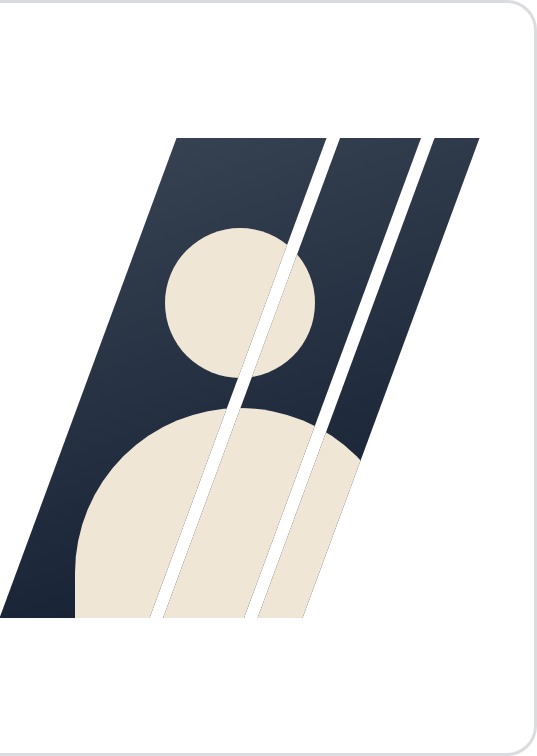
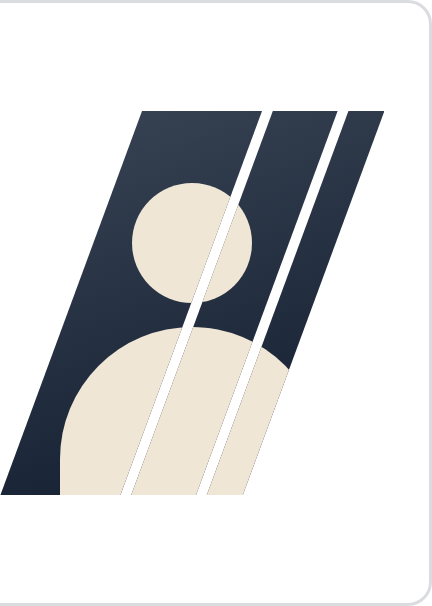
Email signature: shrink the card to 80% (415px wide)
Claude-Session: https://claude.ai/code/session_01GgaKx3bXDJYD5g8dhmqHc3

diff --git a/marketing/email-signature/people/yamen-alsulaiman/signature.html b/marketing/email-signature/people/yamen-alsulaiman/signature.html
@@ -1,6 +1,6 @@
 <!-- ETS email signature for Yamen Alsulaiman. Made by build.js - edit there, not here. -->
 <table cellpadding="0" cellspacing="0" border="0" style="border-collapse:collapse;"><tr>
-<td style="padding:0;vertical-align:top;font-size:0;line-height:0;"><a href="https://excellenttilingservices.com" style="text-decoration:none;"><img src="https://cdn.shopify.com/s/files/1/0683/0292/9983/files/ets-sig-yamen-alsulaiman-strip-website.png?v=1794456637" width="55" height="96" alt="Website" style="display:block;border:0;outline:none;"></a><a href="https://www.instagram.com/excellent_tiling_services/" style="text-decoration:none;"><img src="https://cdn.shopify.com/s/files/1/0683/0292/9983/files/ets-sig-yamen-alsulaiman-strip-instagram.png?v=1794456637" width="55" height="30" alt="Instagram" style="display:block;border:0;outline:none;"></a><a href="https://www.facebook.com/share/1943ueL61k/" style="text-decoration:none;"><img src="https://cdn.shopify.com/s/files/1/0683/0292/9983/files/ets-sig-yamen-alsulaiman-strip-facebook.png?v=1794456637" width="55" height="30" alt="Facebook" style="display:block;border:0;outline:none;"></a><a href="mailto:yamen@excellenttilingservices.com" style="text-decoration:none;"><img src="https://cdn.shopify.com/s/files/1/0683/0292/9983/files/ets-sig-yamen-alsulaiman-strip-email.png?v=1794456637" width="55" height="96" alt="Email" style="display:block;border:0;outline:none;"></a></td>
-<td style="padding:0;vertical-align:top;font-size:0;line-height:0;"><a href="https://excellenttilingservices.com" style="text-decoration:none;"><img src="https://cdn.shopify.com/s/files/1/0683/0292/9983/files/ets-sig-yamen-alsulaiman-logo.png?v=1794456637" width="284" height="57" alt="Excellent Tiling Services" style="display:block;border:0;outline:none;"></a><img src="https://cdn.shopify.com/s/files/1/0683/0292/9983/files/ets-sig-yamen-alsulaiman-name.png?v=1794456637" width="284" height="64" alt="Yamen Alsulaiman, CEO" style="display:block;border:0;outline:none;"><a href="tel:+61450960543" style="text-decoration:none;"><img src="https://cdn.shopify.com/s/files/1/0683/0292/9983/files/ets-sig-yamen-alsulaiman-phone.png?v=1794456637" width="284" height="26" alt="0450 960 543" style="display:block;border:0;outline:none;"></a><a href="mailto:yamen@excellenttilingservices.com" style="text-decoration:none;"><img src="https://cdn.shopify.com/s/files/1/0683/0292/9983/files/ets-sig-yamen-alsulaiman-email.png?v=1794456637" width="284" height="22" alt="yamen@excellenttilingservices.com" style="display:block;border:0;outline:none;"></a><a href="mailto:contactus@excellenttilingservices.com" style="text-decoration:none;"><img src="https://cdn.shopify.com/s/files/1/0683/0292/9983/files/ets-sig-yamen-alsulaiman-shop-email.png?v=1794456638" width="284" height="22" alt="contactus@excellenttilingservices.com" style="display:block;border:0;outline:none;"></a><a href="https://excellenttilingservices.com" style="text-decoration:none;"><img src="https://cdn.shopify.com/s/files/1/0683/0292/9983/files/ets-sig-yamen-alsulaiman-website.png?v=1794456637" width="284" height="22" alt="excellenttilingservices.com" style="display:block;border:0;outline:none;"></a><a href="https://www.google.com/maps/search/?api=1&amp;amp;query=17A+Olga+Road+Maddington+WA+6109" style="text-decoration:none;"><img src="https://cdn.shopify.com/s/files/1/0683/0292/9983/files/ets-sig-yamen-alsulaiman-address.png?v=1794456637" width="284" height="39" alt="17A Olga Road, Maddington WA 6109" style="display:block;border:0;outline:none;"></a></td>
-<td style="padding:0;vertical-align:top;font-size:0;line-height:0;"><img src="https://cdn.shopify.com/s/files/1/0683/0292/9983/files/ets-sig-yamen-alsulaiman-photo.png?v=1794456637" width="179" height="252" alt="" style="display:block;border:0;outline:none;"></td>
+<td style="padding:0;vertical-align:top;font-size:0;line-height:0;"><a href="https://excellenttilingservices.com" style="text-decoration:none;"><img src="https://cdn.shopify.com/s/files/1/0683/0292/9983/files/ets-sig-yamen-alsulaiman-strip-website.png?v=1794456637" width="44" height="77" alt="Website" style="display:block;border:0;outline:none;"></a><a href="https://www.instagram.com/excellent_tiling_services/" style="text-decoration:none;"><img src="https://cdn.shopify.com/s/files/1/0683/0292/9983/files/ets-sig-yamen-alsulaiman-strip-instagram.png?v=1794456637" width="44" height="24" alt="Instagram" style="display:block;border:0;outline:none;"></a><a href="https://www.facebook.com/share/1943ueL61k/" style="text-decoration:none;"><img src="https://cdn.shopify.com/s/files/1/0683/0292/9983/files/ets-sig-yamen-alsulaiman-strip-facebook.png?v=1794456637" width="44" height="24" alt="Facebook" style="display:block;border:0;outline:none;"></a><a href="mailto:yamen@excellenttilingservices.com" style="text-decoration:none;"><img src="https://cdn.shopify.com/s/files/1/0683/0292/9983/files/ets-sig-yamen-alsulaiman-strip-email.png?v=1794456637" width="44" height="77" alt="Email" style="display:block;border:0;outline:none;"></a></td>
+<td style="padding:0;vertical-align:top;font-size:0;line-height:0;"><a href="https://excellenttilingservices.com" style="text-decoration:none;"><img src="https://cdn.shopify.com/s/files/1/0683/0292/9983/files/ets-sig-yamen-alsulaiman-logo.png?v=1794456637" width="227" height="46" alt="Excellent Tiling Services" style="display:block;border:0;outline:none;"></a><img src="https://cdn.shopify.com/s/files/1/0683/0292/9983/files/ets-sig-yamen-alsulaiman-name.png?v=1794456637" width="227" height="51" alt="Yamen Alsulaiman, CEO" style="display:block;border:0;outline:none;"><a href="tel:+61450960543" style="text-decoration:none;"><img src="https://cdn.shopify.com/s/files/1/0683/0292/9983/files/ets-sig-yamen-alsulaiman-phone.png?v=1794456637" width="227" height="21" alt="0450 960 543" style="display:block;border:0;outline:none;"></a><a href="mailto:yamen@excellenttilingservices.com" style="text-decoration:none;"><img src="https://cdn.shopify.com/s/files/1/0683/0292/9983/files/ets-sig-yamen-alsulaiman-email.png?v=1794456637" width="227" height="17" alt="yamen@excellenttilingservices.com" style="display:block;border:0;outline:none;"></a><a href="mailto:contactus@excellenttilingservices.com" style="text-decoration:none;"><img src="https://cdn.shopify.com/s/files/1/0683/0292/9983/files/ets-sig-yamen-alsulaiman-shop-email.png?v=1794456638" width="227" height="18" alt="contactus@excellenttilingservices.com" style="display:block;border:0;outline:none;"></a><a href="https://excellenttilingservices.com" style="text-decoration:none;"><img src="https://cdn.shopify.com/s/files/1/0683/0292/9983/files/ets-sig-yamen-alsulaiman-website.png?v=1794456637" width="227" height="18" alt="excellenttilingservices.com" style="display:block;border:0;outline:none;"></a><a href="https://www.google.com/maps/search/?api=1&amp;amp;query=17A+Olga+Road+Maddington+WA+6109" style="text-decoration:none;"><img src="https://cdn.shopify.com/s/files/1/0683/0292/9983/files/ets-sig-yamen-alsulaiman-address.png?v=1794456637" width="227" height="31" alt="17A Olga Road, Maddington WA 6109" style="display:block;border:0;outline:none;"></a></td>
+<td style="padding:0;vertical-align:top;font-size:0;line-height:0;"><img src="https://cdn.shopify.com/s/files/1/0683/0292/9983/files/ets-sig-yamen-alsulaiman-photo.png?v=1794456637" width="144" height="202" alt="" style="display:block;border:0;outline:none;"></td>
 </tr></table>

diff --git a/marketing/email-signature/build.js b/marketing/email-signature/build.js
@@ -16,6 +16,7 @@ const B = {
   ink: '#15213A', dark: '#0F1A2C', brass: '#9C7744', brassLight: '#E9D6B5', cream: '#EFE6D6', muted: '#6A6862', line: '#DADCE0',
   sans: "Manrope,'Segoe UI',Arial,Helvetica,sans-serif",
 };
+const SCALE = 0.8; // overall size of the card in an email. 1 = 518px wide (too big in Outlook), 0.8 = about 415px.
 const SHOP = {
   site: 'https://excellenttilingservices.com', siteText: 'excellenttilingservices.com',
   email: 'contactus@excellenttilingservices.com', phone: '0450 960 543',
@@ -78,7 +79,7 @@ function designHtml(p, photo) {
   const row = (s, ic, text, color = B.ink) => `<div data-s="${s}" style="display:flex;align-items:center;gap:8px;height:22px;font-size:12px;color:${color};white-space:nowrap"><span style="color:${B.brass};fill:${B.brass}">${icon(ic, 13)}</span>${esc(text)}</div>`;
   return `<style>${font('M5', 'manrope-latin-500-normal.woff2')}${font('M6', 'manrope-latin-600-normal.woff2')}${font('M7', 'manrope-latin-700-normal.woff2')}${font('IS', 'instrument-serif-latin-400-normal.woff2')}
     body{margin:0;background:transparent}</style>
-<div id="card" style="display:inline-flex;align-items:center;box-sizing:border-box;border:1px solid ${B.line};border-radius:10px;background:#fff;font-family:M5;color:${B.ink}">
+<div id="card" style="zoom:${SCALE};display:inline-flex;align-items:center;box-sizing:border-box;border:1px solid ${B.line};border-radius:10px;background:#fff;font-family:M5;color:${B.ink}">
   <div style="padding:16px 0 16px 16px"><div style="border-radius:6px;background:${B.dark}">
     ${strip('website', 'globe', '10px 10px 6px')}${strip('instagram', 'instagram', '6px 10px')}${strip('facebook', 'facebook', '6px 10px')}${strip('email', 'mail', '6px 10px 10px')}
   </div></div>
@@ -109,13 +110,13 @@ function designHtml(p, photo) {
   await page.evaluate(() => document.fonts.ready);
   // Measure where to cut (whole px): columns at the start of the text and photo columns, rows halfway between neighbours.
   const list = pieces(p);
-  const m = await page.evaluate(names => {
+  const m = await page.evaluate(([names, scale]) => {
     const card = document.getElementById('card'), r = card.getBoundingClientRect();
-    card.style.width = Math.ceil(r.width) + 'px'; card.style.height = Math.ceil(r.height) + 'px';
+    card.style.width = Math.ceil(r.width) / scale + 'px'; card.style.height = Math.ceil(r.height) / scale + 'px'; // whole px after scaling
     const box = el => { const b = el.getBoundingClientRect(); return { top: b.top, bottom: b.bottom, left: b.left }; };
     return { w: Math.ceil(r.width), h: Math.ceil(r.height), cols: [1, 2].map(c => Math.round(box(document.querySelector(`[data-col="${c}"]`)).left)),
       boxes: Object.fromEntries(names.map(n => [n, box(document.querySelector(`[data-s="${n}"]`) || document.querySelector('[data-col="2"]'))])) };
-  }, list.map(x => x[1]));
+  }, [list.map(x => x[1]), SCALE]);
   const xs = [0, ...m.cols, m.w];
   const cols = [0, 1, 2].map(c => {
     const items = list.filter(x => x[0] === c);
